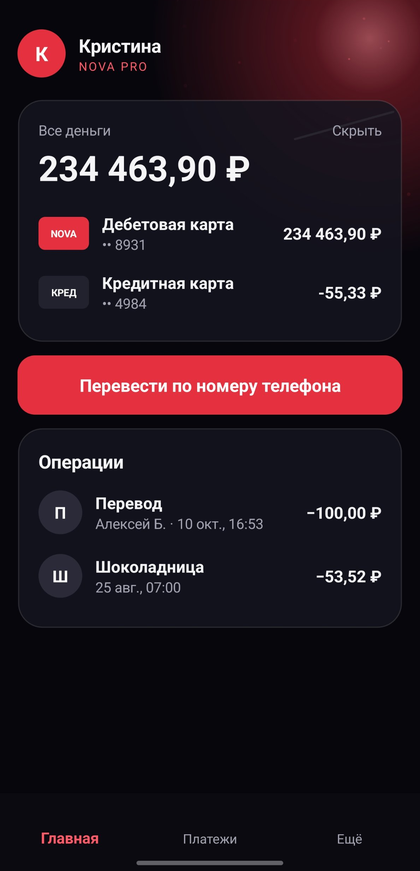
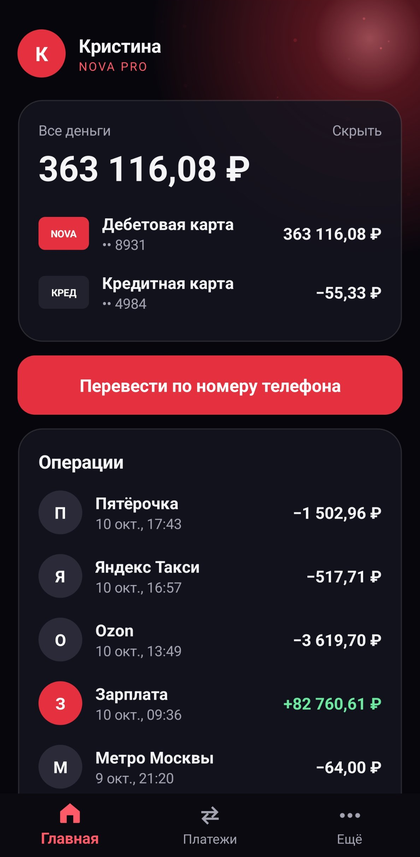
App: иконки вкладок; README: новый скрин; сценарий: сезонность

diff --git a/docs/demo-script.md b/docs/demo-script.md
@@ -24,7 +24,7 @@
 | 2 | 0:12–0:35 | Телефон: вход → код 2FA → главная | «Вход по паролю и второму фактору. Код проверяет мой собственный TOTP по RFC 6238, один код нельзя использовать дважды.» |
 | 3 | 0:35–1:00 | Перевод по номеру: ввод телефона → «Алексей Б.» → 100 ₽ → успех → баланс обновился | «Перевод по номеру: имя получателя видно до отправки. На сервере оба счёта блокируются в фиксированном порядке — встречные переводы не дедлочатся. Повторное нажатие не спишет деньги дважды: у перевода ключ идемпотентности.» |
 | 4 | 1:00–1:10 | Выписка, прокрутка вниз — подгрузка | «Выписка — 0,12 миллисекунды благодаря индексу и партициям по месяцам.» |
-| 5 | 1:10–1:35 | Консоль: вход `owner` + код → Обзор (KPI, график) | «Консоль владельца. Без двухфакторки владелец не получает ни одного права. Здесь 200 тысяч клиентов и 52 миллиарда на счетах.» |
+| 5 | 1:10–1:35 | Консоль: вход `owner` + код → Обзор (KPI, график) | «Консоль владельца. Без двухфакторки владелец не получает ни одного права. Здесь 200 тысяч клиентов и 52 миллиарда на счетах. На графике видны выходные и всплеск в день зарплаты — генератор данных моделирует реальное поведение клиентов.» |
 | 6 | 1:35–1:55 | Сверка (дождаться ✓) | «Сверка: баланс каждого счёта равен сумме его проводок, дебет равен кредиту. Пять миллионов строк — ноль расхождений.» |
 | 7 | 1:55–2:15 | Аудит: ✓ цепочка, строки `admin.login.failed` | «Аудит-лог — цепочка SHA-256. Попробуйте поправить любую строку в базе — здесь станет красный крест.» |
 | 8 | 2:15–2:25 | Выйти → вход `auditor` → меню только Аудит и Сверка | «Права, а не роли: аудитор видит журнал и сверку, но не клиентов. Меню и доступ строятся из одной матрицы.» |
